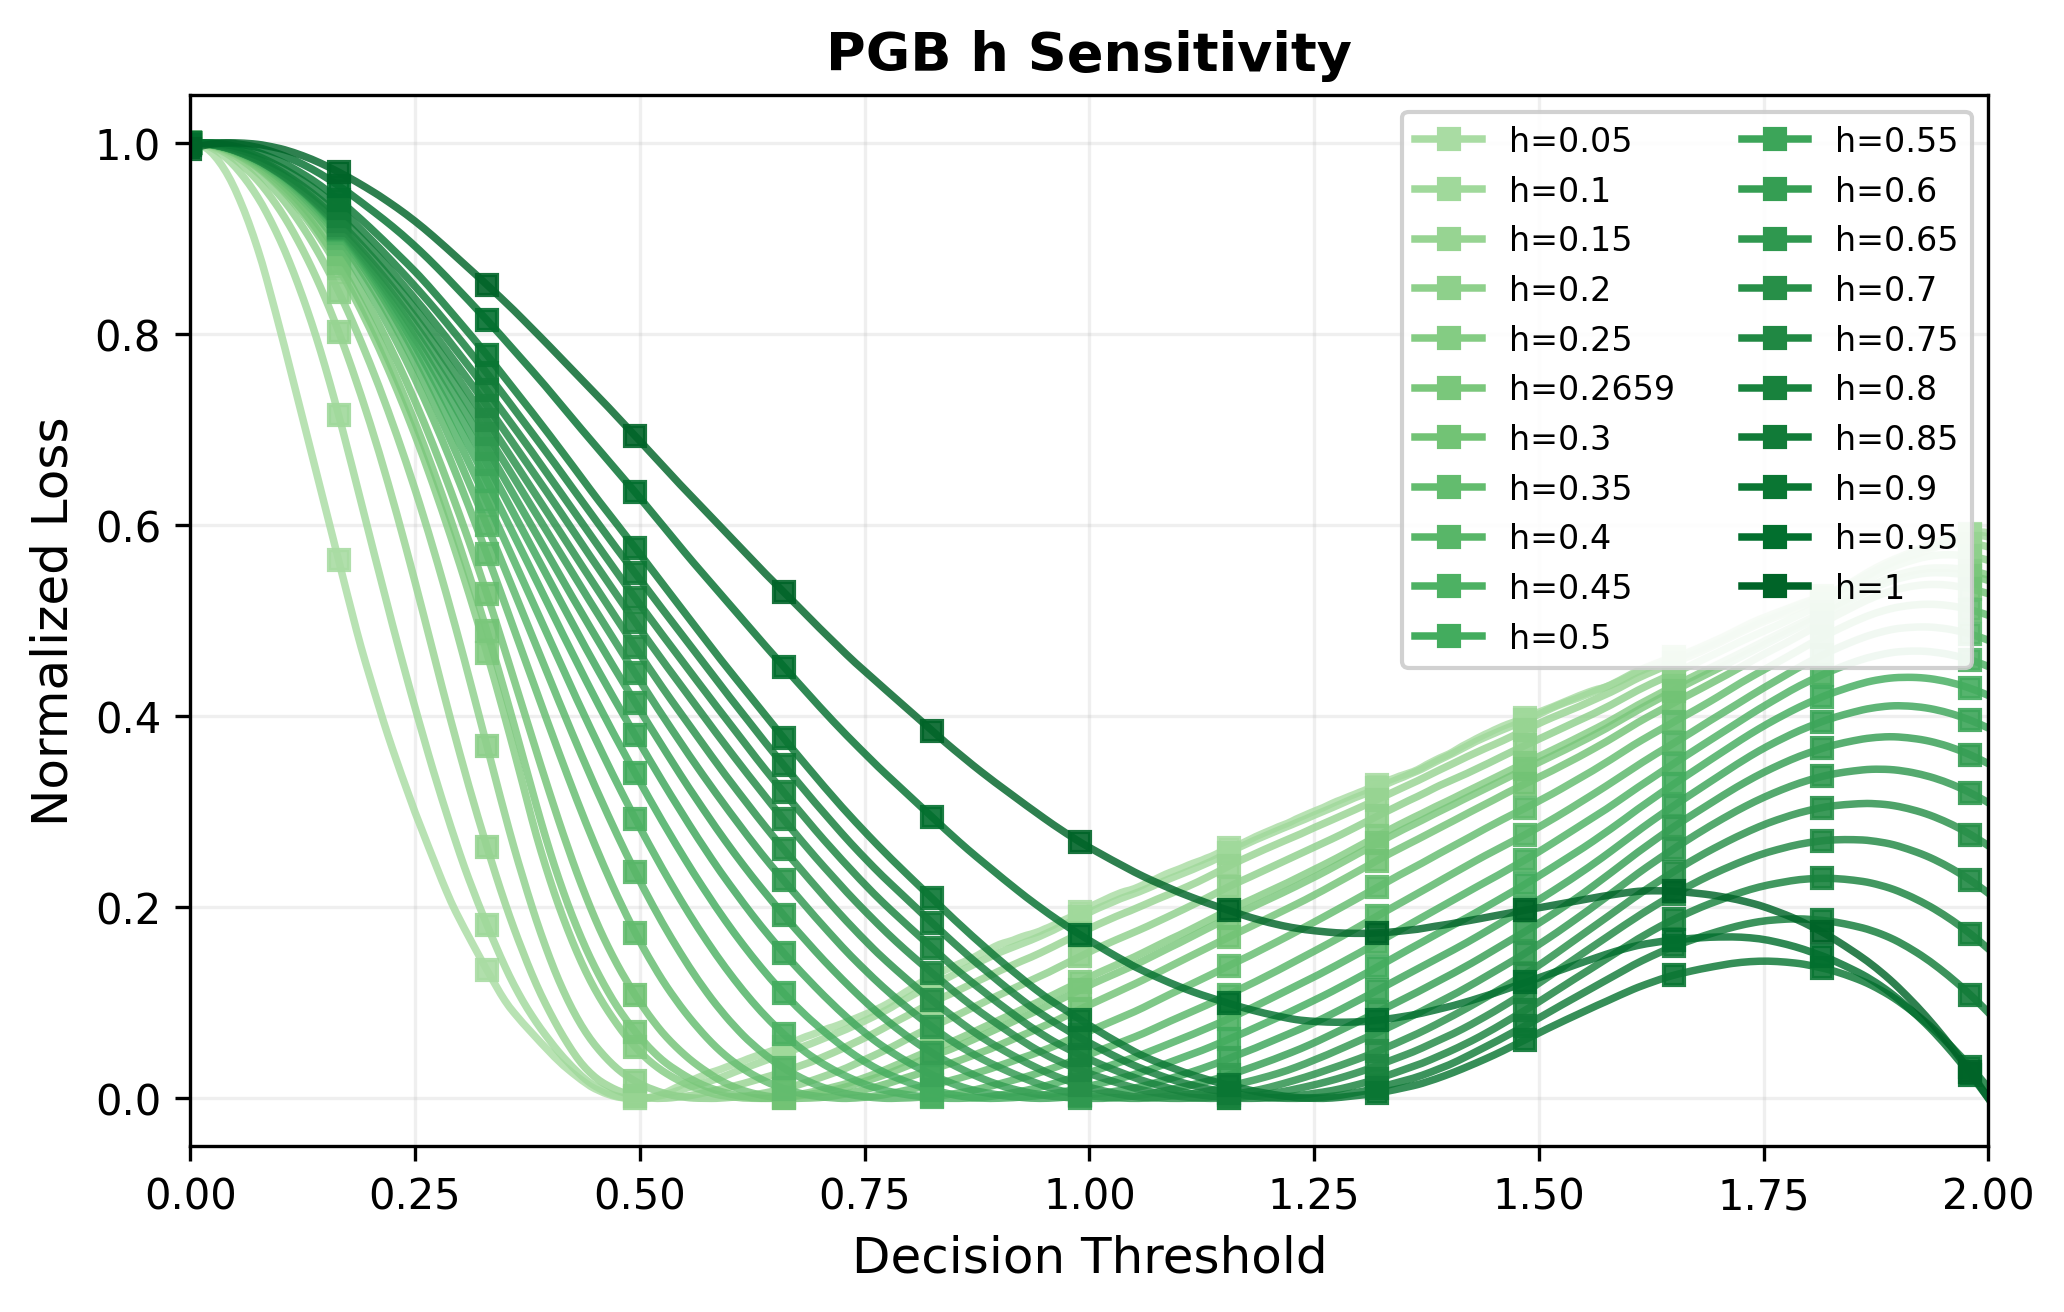
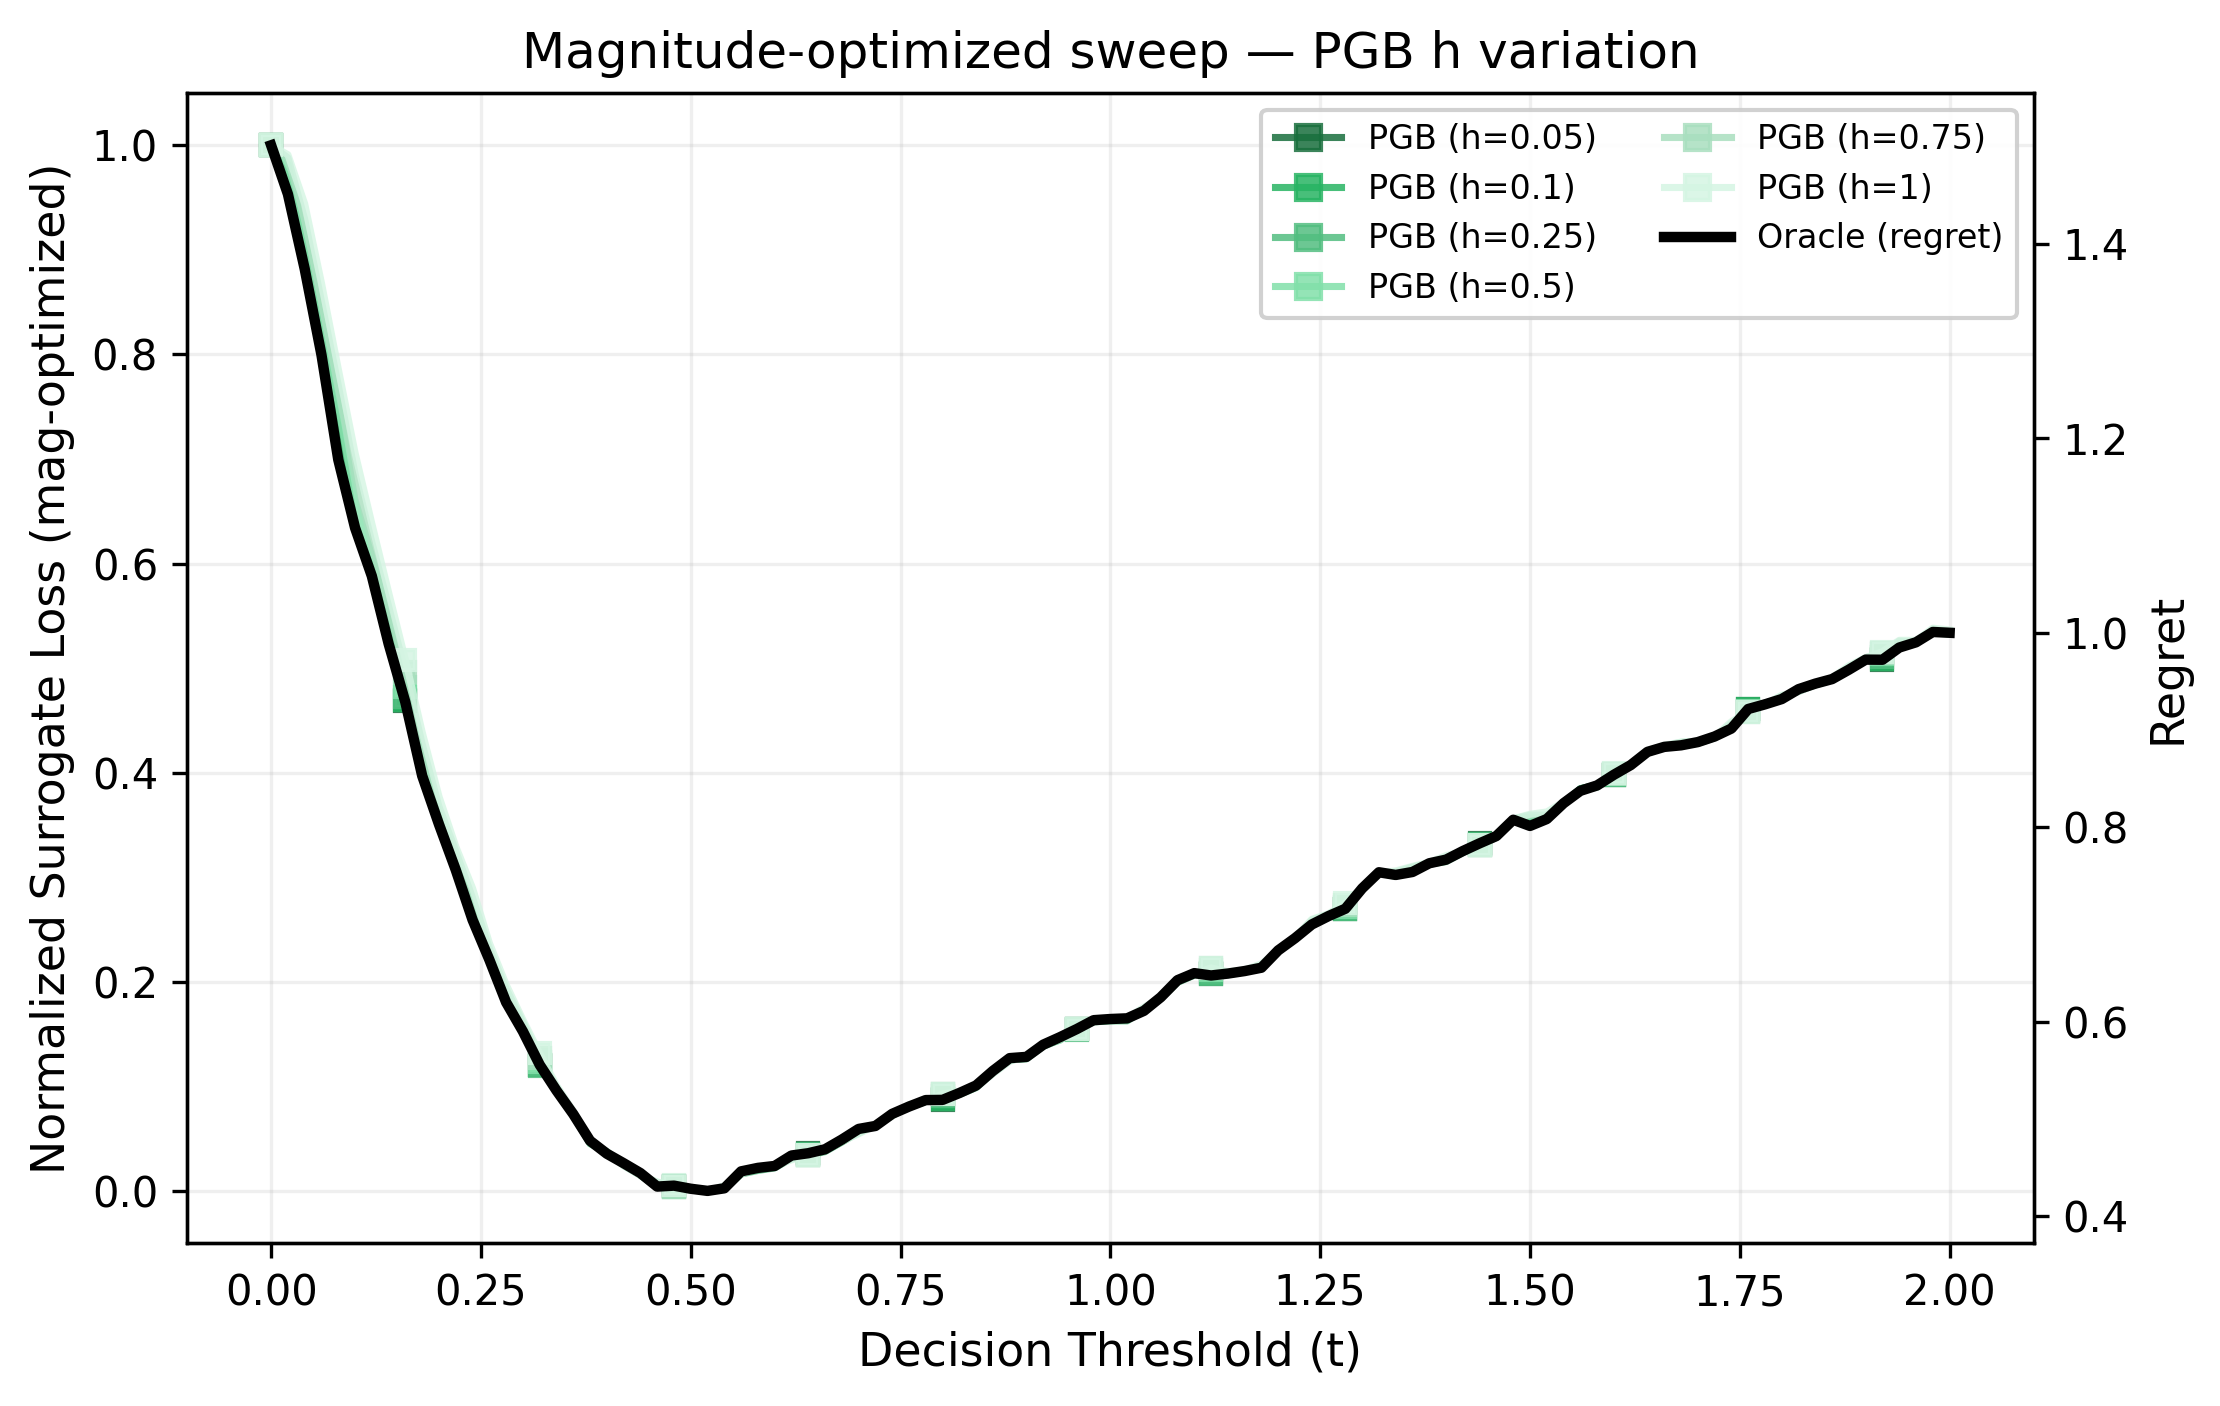
Address ch5 synthetic task advisor comments

Changed region(s): [[0.0, 0.0, 0.9922, 0.9688], [0.9612, 0.875, 0.9922, 0.9375]]

diff --git a/content/chapters/dpo/sec_expt_synth.tex b/content/chapters/dpo/sec_expt_synth.tex
@@ -1,27 +1,37 @@
-As an example of a task where decision-aware methods offer benefits over decision-blind ones, we analyze the synthetic task in \citeauthor{huang2024decisionfocusedPG} (details in App.~\ref{app:synth}), with univariate $x$, $y$, and $z$. 
+As an example of a task where decision-aware methods offer benefits over decision-blind ones, we analyze the misspecified synthetic task from \citet{huang2024decisionfocusedPG}, with univariate $x$, $y$, and $z$. Here $X \sim \text{Unif}(0,2)$ and $Y = f^*(X) + 0.5 - \zeta$, where $\zeta$ is an exponential random variable with mean 0.5. The true mean function $f^*$ is piecewise linear:
+\begin{equation}
+f^*(x) = \begin{cases}
+-4x + 2, & x \in [0,\,0.55], \\
+-0.2, & x \in [0.55,\,2].
+\end{cases}
+\end{equation}
+Sample data are shown in Fig.~\ref{fig:synth_data}.
+
+\begin{figure}[!h]
+\includegraphics[width=0.65\linewidth]{figures/synthetic_data.pdf}
+\caption[Synthetic data task: true mean function $f^*(x)$ and sampled $y$ values with Exponential noise.]{Synthetic data task: True data-generating mean function $f^*(x)$ and sampled $y$ values using zero-mean noise from an Exponential distribution.
+In order to minimize cost $z \cdot y$ by taking actions $z \in \{0, 1\}$, the optimal policy is to choose $z{=}0$ when $x<0.5,$ and $z{=}+1$ otherwise. However, the asymmetric noise in $y$ means that, even optimal decisions may sometimes incur a positive cost at any $x$ value; the optimal policy's expected cost is roughly 0.39. }
+\label{fig:synth_data}
+\end{figure}
+
+The decision task is to select a binary $z \in \{0, 1\}$ to minimize cost $z \cdot y$. Since the mean of $y$ is above zero when $x < 0.5$ and below otherwise, the optimal decision strategy is to choose $z=0$ when $x < 0.5$ and $z=1$ otherwise. Further details are in App.~\ref{app:synth}.
 
 We present this task as an example of an appropriate choice for benchmarking decision-aware methods, thanks to the following properties:
 \begin{itemize}
-    \item The model is misspecified. The linear model used here does not have the capacity to capture the true data generating process. We know that under model misspecification, integrated prediction and optimization methods are superior to two-stage approaches \cite{elmachtoubDissectingImpactModel2025}.
-    \item Misspecification is not enough to guarantee that the two-stage and integrated approaches will come to meaningfully different decisions. However, this task was designed so that is the case.
-    \item As an added benefit, this task was designed so that common assumptions in decision-aware methods (such as symmetric noise) are violated, and accordingly leads to different PnO methods arriving at different solutions, allowing for meaningful comparisons.
+    \item The model is misspecified. The linear model used here does not have the capacity to capture the true data generating process. We know that under model misspecification, integrated prediction and optimization methods are superior to two-stage approaches \citep{elmachtoubDissectingImpactModel2025}.
+    \item Misspecification is not enough to guarantee that the two-stage and integrated approaches will come to meaningfully different decisions. As a counterexample, a complex data-generating process whose decision boundary is still recoverable by a linear model would yield similar decisions from both approaches. However, this task was designed so that is not the case.
+    \item As an added benefit, this task was designed so that common assumptions in decision-aware methods (such as symmetric noise) are violated, and accordingly leads to different PnO methods arriving at different solutions, allowing for meaningful comparisons. SPO+ in particular requires centrally-symmetric noise for its Fisher-consistency guarantee \citep{elmachtoubSmartPredictThen2022}, and degrades under the asymmetric noise used here \citep{huang2024decisionfocusedPG}.
 \end{itemize}
-
-The true data-generating process for $y$ given $x$ relationship is piecewise linear, as shown in Fig.~\ref{fig:synth_data}.
-The mean of $y$ is \text{above zero} when $x < 0.5$ and below otherwise. Asymmetric noise is added to this mean.
-The decision task here is to select a binary $z$ value ($\mathcal{Z} {=} \{ 0, 1\})$ to minimize cost $z \cdot y$.  The optimal decision strategy is thus to guess $z=0$ when $x < 0.5$ and $z=1$ otherwise.
 
 \textbf{Model.} We use a 2-parameter linear model: $\hat{y}_{\theta}(x) = \theta_1 x + \theta_0$. This is misspecified to the true ``hockey stick'' trend, but  it can still yield optimal decisions. As long as the learned zero-crossing occurs at $x=0.5$, there are many possible $\theta$ which would achieve optimal cost.
 %Ultimately, while the assumed linear model is misspecified for the piecewise linear $f^*$ above, by design it can still yield optimal decisions, since effectively the task \todo{can be solved by ensuring the zero-crossing of $\theta_1 x + \theta_2$ happens at 0.55; there are many possible $\theta$ which would yield an optimal cost.}
 
-\textbf{Experiment 1: What solutions do different methods favor?} First, we consider the question: ``Which decisions does each method prefer?" That is to say, we analyze the decision loss at all possible model parameter settings, and find which setting is preferred by a variety of methods. Although this model has 2 parameters, because our action space is binary, the only aspect of the model which matters for the decision loss is where the model crosses the x-axis. If the model predicts a positive cost, we take action $0$ to eliminate it, and if the model predicts a negative cost, we take action $1$ to benefit from it. To conduct this experiment, we set the model slope to 1, and varied the intercept term to achieve every possible decision boundary in the domain $[0,\ 1]$. At each decision threshold, we calculate the given method's objective on a test set of size $10,000$. For the two-stage, MSE model, we solve a constrained optimization to find the optimal model at each possible decision threshold. For comparison methods, we consider the methods originally used by \citeauthor{huang2024decisionfocusedPG}, and in addition we add differentiable perturbed optimizers (DPO) as we hypothesize it is well-suited to this task. 
+\textbf{Experiment 1: What solutions do different methods favor?} First, we consider the question: ``Which decisions does each method prefer?" That is to say, we analyze the decision loss across model parameter settings, and find which setting is preferred by a variety of methods. To conduct this experiment, we reparameterize the linear model as $\hat{y}(x) = \exp(a) \cdot (t - x)$, with two scalar parameters: a decision threshold $t$ (free) and a log-magnitude $a$ (so the weight magnitude $|w|=\exp(a)$ is always positive and grows freely in log-space). We sweep $t$ across the domain $[0,\ 1]$ while letting $a$ vary, evaluating each method's objective on a test set of size $10,000$. For comparison methods, we consider the methods originally used by \citeauthor{huang2024decisionfocusedPG}, and in addition we add differentiable perturbed optimizers (DPO) as we hypothesize it is well-suited to this task.
 
-\textbf{Results} In Figure \ref{fig:noisy_synth_sweep}, we see the results of this experiment. As expected, the two-stage, decision-unaware MSE approach is minimized at a far different threshold than that which minimizes decision regret. As \citeauthor{huang2024decisionfocusedPG} showed, the Perturbed Gradient (PG) method is the only method which also closely aligns with decision regret among the original set of models studied. We see that DPO also shares this desirable property. 
-
-In addition, we provide a careful analysis of the decision-specific hyperparameters, and show that both DPO and PG only closely-align with decision regret as their hyperparameters $\sigma$ and $h$, respectively, approach 0. Carefully tuning these hyperparameters is critical to achieving the best decision-aware solutions.
+\textbf{Results} In Figure \ref{fig:noisy_synth_sweep}, we see the results of this experiment. As expected, the two-stage, decision-unaware MSE approach is minimized at a far different threshold than that which minimizes decision regret. As \citeauthor{huang2024decisionfocusedPG} showed, the Perturbed Gradient (PG) method is the only method which also closely aligns with decision regret among the original set of models studied. We see that DPO also shares this desirable property. We additionally show that the DPO and PG surrogate losses are not sensitive to their hyperparameters $\sigma$ and $h$ on this task.
 
 
 \textbf{Experiment 2: What solutions are different models capable of learning via gradient descent?} Even though a given decision-aware loss method might prefer a certain solution, the loss landscape is non-convex, and it may be difficult to arrive at the global minimum. To explore this, we trained each method on 100 different randomly sampled datasets of size 200 with 100 different random initializations of hyperparameters.
 
 \textbf{Results.}
-In Figure \ref{fig:noisy_synth_regret} we see the results of this experiment. Here we see a more nuanced picture than what the decision threshold sweep alone gave us: some methods which closely agreed with the true decision loss are unable to learn the optimal solution. We see this acutely in DPO for low $\sigma$ values such as $0.05$. As $\sigma \xrightarrow{} 0$ the DPO objective aproaches the true decision loss, but the gradient signal gets weaker. We see that a more moderate value is required for successful learning with gradient descent.
+In Figure \ref{fig:noisy_synth_regret} we see the results of this experiment. Here we see a more nuanced picture than what the decision threshold sweep alone gave us: some methods which closely agreed with the true decision loss are unable to learn the optimal solution. We see this acutely in DPO for low $\sigma$ values such as $0.05$. As $\sigma \rightarrow 0$ the DPO surrogate approaches the true (piecewise-constant) decision loss, recovering the very flatness that motivated decision-aware learning in the first place. Gradients become near-zero away from the decision boundary, and stochastic gradient descent stalls. A larger $\sigma$ is required to keep the surrogate landscape informative enough for gradient descent to make progress.

diff --git a/content/chapters/dpo/app_synth.tex b/content/chapters/dpo/app_synth.tex
@@ -16,10 +16,3 @@ This equation is reflected about the x-axis from provided equations in \citeauth
 The decision task here is to select a binary $z$ value ($\mathcal{Z} = \{ 0, 1\})$ so the cost $c(z, y) {=} z \cdot y$ is minimized. The true data-generating process $f^*(x)$ is only \text{above zero} when $x < 0.5$. Thus, to minimize expected cost, we ideally guess $z=0$ when $x < 0.5$ and $z=1$ otherwise.
 
 \textbf{Model.} We use a 2-parameter linear model: $\hat{y}_{\theta}(x) = \theta_1 x + \theta_0$. While misspecified, by design it can still yield optimal decisions. As long as the learned zero-crossing occurs at $x=0.5$, there are many possible $\theta$ which would achieve optimal cost.
-
-\begin{figure}[!h]
-\includegraphics[width=0.65\linewidth]{figures/synthetic_data.pdf}
-\caption[Synthetic data task: true mean function $f^*(x)$ and sampled $y$ values with Exponential noise.]{Synthetic data task: True data-generating mean function $f^*(x)$ and sampled $y$ values using zero-mean noise from an Exponential distribution.
-In order to minimize cost $z \cdot y$ by taking actions $z \in \{0, 1\}$, the optimal policy is to choose $z{=}0$ when $x<0.5,$ and $z{=}+1$ otherwise. However, the asymmetric noise in $y$ means that, even optimal decisions may sometimes incur a positive cost at any $x$ value; the optimal policy's expected cost is roughly 0.39. }
-\label{fig:synth_data}
-\end{figure}

diff --git a/content/chapters/dpo/fig_triple_synth_regret.tex b/content/chapters/dpo/fig_triple_synth_regret.tex
@@ -29,8 +29,8 @@
 The dashed black line shows oracle decision regret. 
 Only DPO and PG approach this optimal regret.
 \textit{Center, Right:} Here we show how the DPO and PG training behavior changes as we vary key hyperparameters. 
-DPO appears to struggle with too-low $\sigma$ values. Training is noisy and does not approach the optimal regret.
- Surprisingly, PG does not exhibit this behavior.
+DPO appears to struggle with too-low $\sigma$ values. Training is noisy and diverges for some dataset sizes.
+ PG demonstrates faster convergence at lower $h$ values.
  }
 %end caption
 \label{fig:noisy_synth_regret}

diff --git a/content/chapters/dpo/fig_triple_synth.tex b/content/chapters/dpo/fig_triple_synth.tex
@@ -28,8 +28,7 @@
 \textit{Left: }Here we evaluate each objective at every possible decision boundary for the synthetic data task. 
 In black, we plot oracle decision regret. 
 Methods which closely align with the oracle will learn parameters that also optimize for decision regret.
-\textit{Center, Right:} Here we show how the DPO and PG objectives change as we vary key hyperparameters.
- Both methods approach the true decision loss when their hyperparameter is 0.
+\textit{Center, Right:} Here we show how the DPO and PG surrogate losses change as we vary key hyperparameters $\sigma$ and $h$. The surrogate-loss landscape (as a function of decision threshold) aligns with oracle regret across all hyperparameter values.
 }%end caption
 \label{fig:noisy_synth_sweep}
 \end{figure*}

diff --git a/content/chapters/dpo/sec_expt_bench.tex b/content/chapters/dpo/sec_expt_bench.tex
@@ -32,10 +32,12 @@ The bipartite matching task is an exception. We see that LTR methods are general
 
 \subsection{Misspecified Regime: Budget Allocation}
 \label{sec:bench-budget}
+\input{content/chapters/dpo/sec_expt_budget.tex}
 Results on the Budget Allocation task are shown in Figure~\ref{fig:budget_bump}. The task is to allocate a fixed budget across websites to maximize the submodular probability that a user clicks on at least one advertisement, using real-world click-through data. Here we see an opposite story to the well-specified regime: MSE is worse than all but one decision-aware method. MSE only achieves $35\%$ relative regret, while the best decision-aware methods have less than $5\%$ on heldout data. We argue this task is much more informative for decision-aware model selection than the rest, because it is the only task where decision-aware models have clear advantages over MSE. We hypothesize that this is due to two factors. The data-generating process for click-through rates is complex and real-world. The cost function is also nonlinear (submodular), qualitatively different from the linear costs used in the other benchmark tasks.
 
 \subsection{Continuous, Gradient-Informative Task: Portfolio}
 \label{sec:bench-portfolio}
+\input{content/chapters/dpo/sec_expt_portfolio.tex}
 Results on the Portfolio task are presented in Figure \ref{fig:portfolio_bump}. These are presented separately because we believe this task should not be included in benchmarks of decision-aware methods without sufficiently noting that this is not a combinatorial optimization task. This task is to optimize the allocation of funds in an investment portfolio, and the allocation fractions are treated as continuous decision variables. Accordingly, the objective is not piecewise constant with respect to model parameters and has informative gradients.
 
 When originally used as a decision-aware benchmarking task in \citet{shahDecisionFocusedLearningDifferentiable2022}, it was proposed as a "stress-test," in that it was a task where decision-aware methods were known to preform poorly. Here \citeauthor{shahDecisionFocusedLearningDifferentiable2022} show how their novel decision-aware method (LODL) performs at the same level as MSE. Furthermore, these authors show that the best method in this case is simply optimizing the objective directly. Here, this is called Decision Focused Learning (DFL), in the generic sense of \citeauthor{shahDecisionFocusedLearningDifferentiable2022}, distinct from the DFL by Wilder et al.\ method discussed above. While \citeauthor{gengBenchmarkingPtOPnO2024} implement a DFL method in the benchmark, it \textit{always} uses a surrogate loss, even though this is not necessary on the Portfolio task. We remedy this, and highlight the strong performance of DFL on this task in Figure \ref{fig:portfolio_bump}.

diff --git a/thesis_main.tex b/thesis_main.tex
@@ -130,8 +130,6 @@ Our code and select datasets are available at \url{https://github.com/tufts-ml/d
 
 \section{Replicating a PnO Benchmark: Do the tasks require PnO methods?}
 \input{content/chapters/dpo/sec_expt_bench}
-\input{content/chapters/dpo/sec_expt_budget.tex}
-\input{content/chapters/dpo/sec_expt_portfolio.tex}
 
 
 \section{A Synthetic Task Where PnO Methods Are Advantaged}